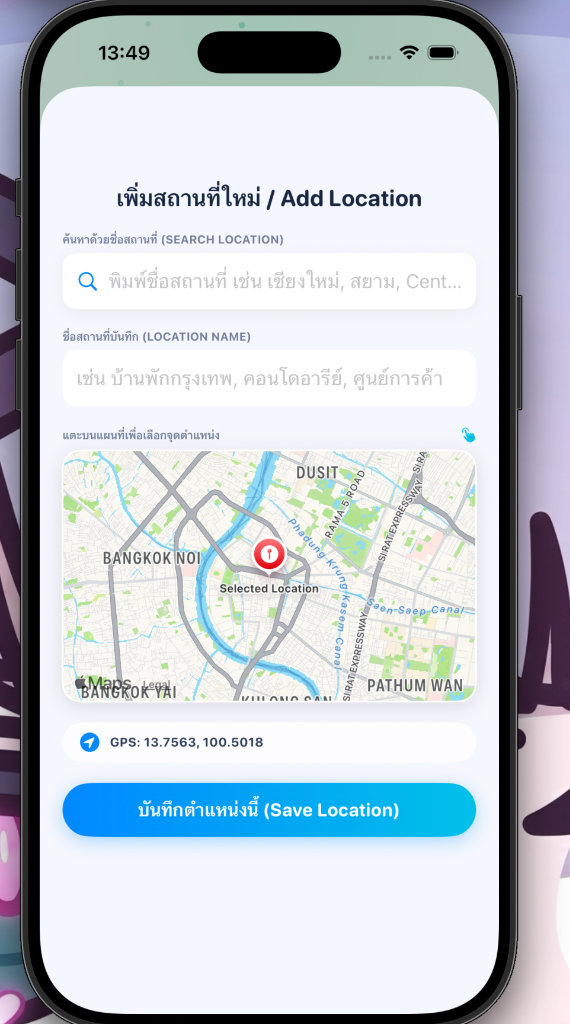
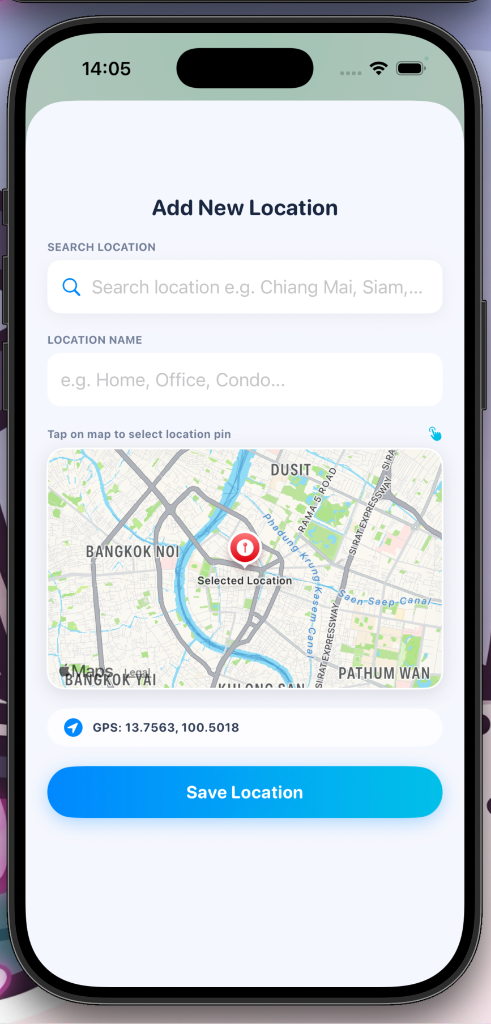
Update README.md with complete set of 7 high-res app screenshots

diff --git a/README.md b/README.md
@@ -1,6 +1,6 @@
 # 🍃 AirSense — Personal Health & Air Quality Tracking App
 
-AirSense is a modern, iOS application designed to monitor real-time Air Quality Index (AQI), PM2.5 pollution levels, personal health exposure logs, and interactive air quality analytics. Powered by **SwiftUI**, **SwiftData**, **CoreLocation**, **MapKit**, and the **World Air Quality Index (WAQI) REST API**, AirSense provides actionable health advice accompanied by an interactive **Air Dragon Mascot** that dynamically adapts its expression and safety gear based on air pollution severity.
+AirSense is a modern iOS application designed to monitor real-time Air Quality Index (AQI), PM2.5 pollution levels, personal health exposure logs, and interactive air quality analytics. Powered by **SwiftUI**, **SwiftData**, **CoreLocation**, **MapKit**, and the **World Air Quality Index (WAQI) REST API**, AirSense provides actionable health advice accompanied by an interactive **Air Dragon Mascot** that dynamically adapts its expression and safety gear based on air pollution severity.
 
 ---
 
@@ -18,9 +18,17 @@ AirSense is a modern, iOS application designed to monitor real-time Air Quality 
 | :---: | :---: |
 | ![Live Radar](screenshots/dashboard.png) | ![Saved Places](screenshots/places.png) |
 
-| Exposure Heatmap Calendar | Add Location & Live Search |
+| Add New Location (Live Search & Map) | Location Air Details & Advice |
 | :---: | :---: |
-| ![Exposure History](screenshots/history.png) | ![Add Location](screenshots/add_location.png) |
+| ![Add Location](screenshots/add_location.png) | ![Location Details](screenshots/location_detail.png) |
+
+| Air Analytics & Pollutant Breakdown | Exposure Heatmap Calendar |
+| :---: | :---: |
+| ![Air Analytics](screenshots/analytics.png) | ![Exposure History](screenshots/history.png) |
+
+| App Settings (Language & Appearance) |
+| :---: |
+| ![App Settings](screenshots/settings.png) |
 
 ---
 
@@ -46,7 +54,7 @@ AirSense is a modern, iOS application designed to monitor real-time Air Quality 
 
 6. **🌐 Bilingual & Modern Glassmorphism UI**
    - Dynamic **Thai 🇹🇭 / English 🇺🇸** language switching (`@AppStorage`).
-   - Custom **Light Mode / Dark Mode** theme toggle.
+   - Custom **Light Mode / Dark Mode** theme toggle (`System / Light / Dark`).
    - Glassmorphic UI aesthetics featuring particle background effects.
 
 ---
